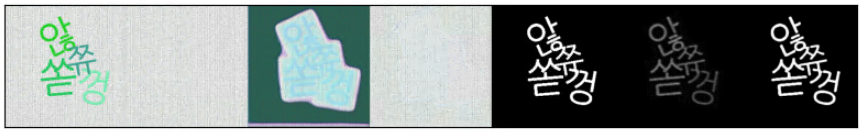
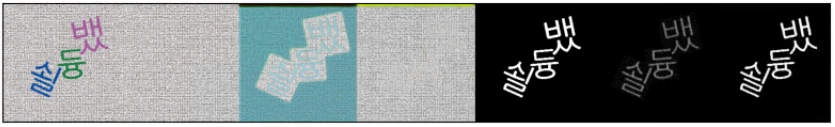
fix train.py optimizer and readme image

diff --git a/train.py b/train.py
@@ -105,7 +105,6 @@ if __name__ == "__main__":
     
     # Train Setting
     model_optim = Adam(model.parameters(), 0.0001, (0.5, 0.9))
-    discrim_optim = Adam(model.discrim.parameters(), 0.0004)
     
     ### Train
     for epoch in range(initial_epoch, epochs):
@@ -138,10 +137,9 @@ if __name__ == "__main__":
             Ldsn = torch.mean(F.relu(1-model.discrim(Mm, Itegt))) + \
                 torch.mean(F.relu(1+model.discrim(Mm, Ite_)))
                           
-            discrim_optim.zero_grad()
+            model_optim.zero_grad()
             Ldsn.backward()
-            discrim_optim.step()
-            
+            model_optim.step()
             
             ltsd = Ltsd.detach().cpu().item()
             ltrg = Ltrg.detach().cpu().item()
@@ -180,26 +178,30 @@ if __name__ == "__main__":
             pgbar.set_postfix_str(f"loss : {sum(val_loss[-10:]) / len(val_loss[-10:]):.6f}")
             
             if len(result_images) < args.show_num:
-                result_images.append([I.cpu(), Itegt.cpu(), Ite_.cpu(), Msgt.cpu(), Ms_.cpu()])
+                result_images.append([I.cpu(), Itegt.cpu(), Ite.cpu(), Ite_.cpu(), Msgt.cpu(), Ms.cpu(), Ms_.cpu()])
             else:
                 break
         
         val_loss = sum(val_loss) / len(val_loss)
         
         ## visualize
-        fig, axs = plt.subplots(args.show_num, 1, figsize=(5, 2*args.show_num))
-        fig.suptitle("Image, Gt, Gen, Stroke Gt, Stroke")
-        for i, (I, Itegt, Ite_, Msgt, Ms_) in enumerate(result_images):
+        fig, axs = plt.subplots(args.show_num, 1, figsize=(10, 2*args.show_num))
+        fig.suptitle("I, Itegt, Ite, Ite_, Msgt, Ms, Ms_]")
+        for i, (I, Itegt, Ite, Ite_, Msgt, Ms, Ms_) in enumerate(result_images):
+        
             I = postprocess_image(tensor_to_mat(I))[0]
             Itegt = postprocess_image(tensor_to_mat(Itegt))[0]
+            Ite = postprocess_image(tensor_to_mat(Ite))[0]
             Ite_ = postprocess_image(tensor_to_mat(Ite_))[0]
             Msgt = postprocess_image(tensor_to_mat(Msgt))[0]
+            Ms = postprocess_image(tensor_to_mat(Ms))[0]
             Ms_ = postprocess_image(tensor_to_mat(Ms_))[0]
             
             Msgt = cv2.cvtColor(Msgt, cv2.COLOR_GRAY2BGR)
+            Ms = cv2.cvtColor(Ms, cv2.COLOR_GRAY2BGR)
             Ms_ = cv2.cvtColor(Ms_, cv2.COLOR_GRAY2BGR)
             
-            axs[i].imshow(np.hstack([I, Itegt, Ite_, Msgt, Ms_]))
+            axs[i].imshow(np.hstack([I, Itegt, Ite, Ite_, Msgt, Ms, Ms_]))
             axs[i].set_xticks([])
             axs[i].set_yticks([])
         
